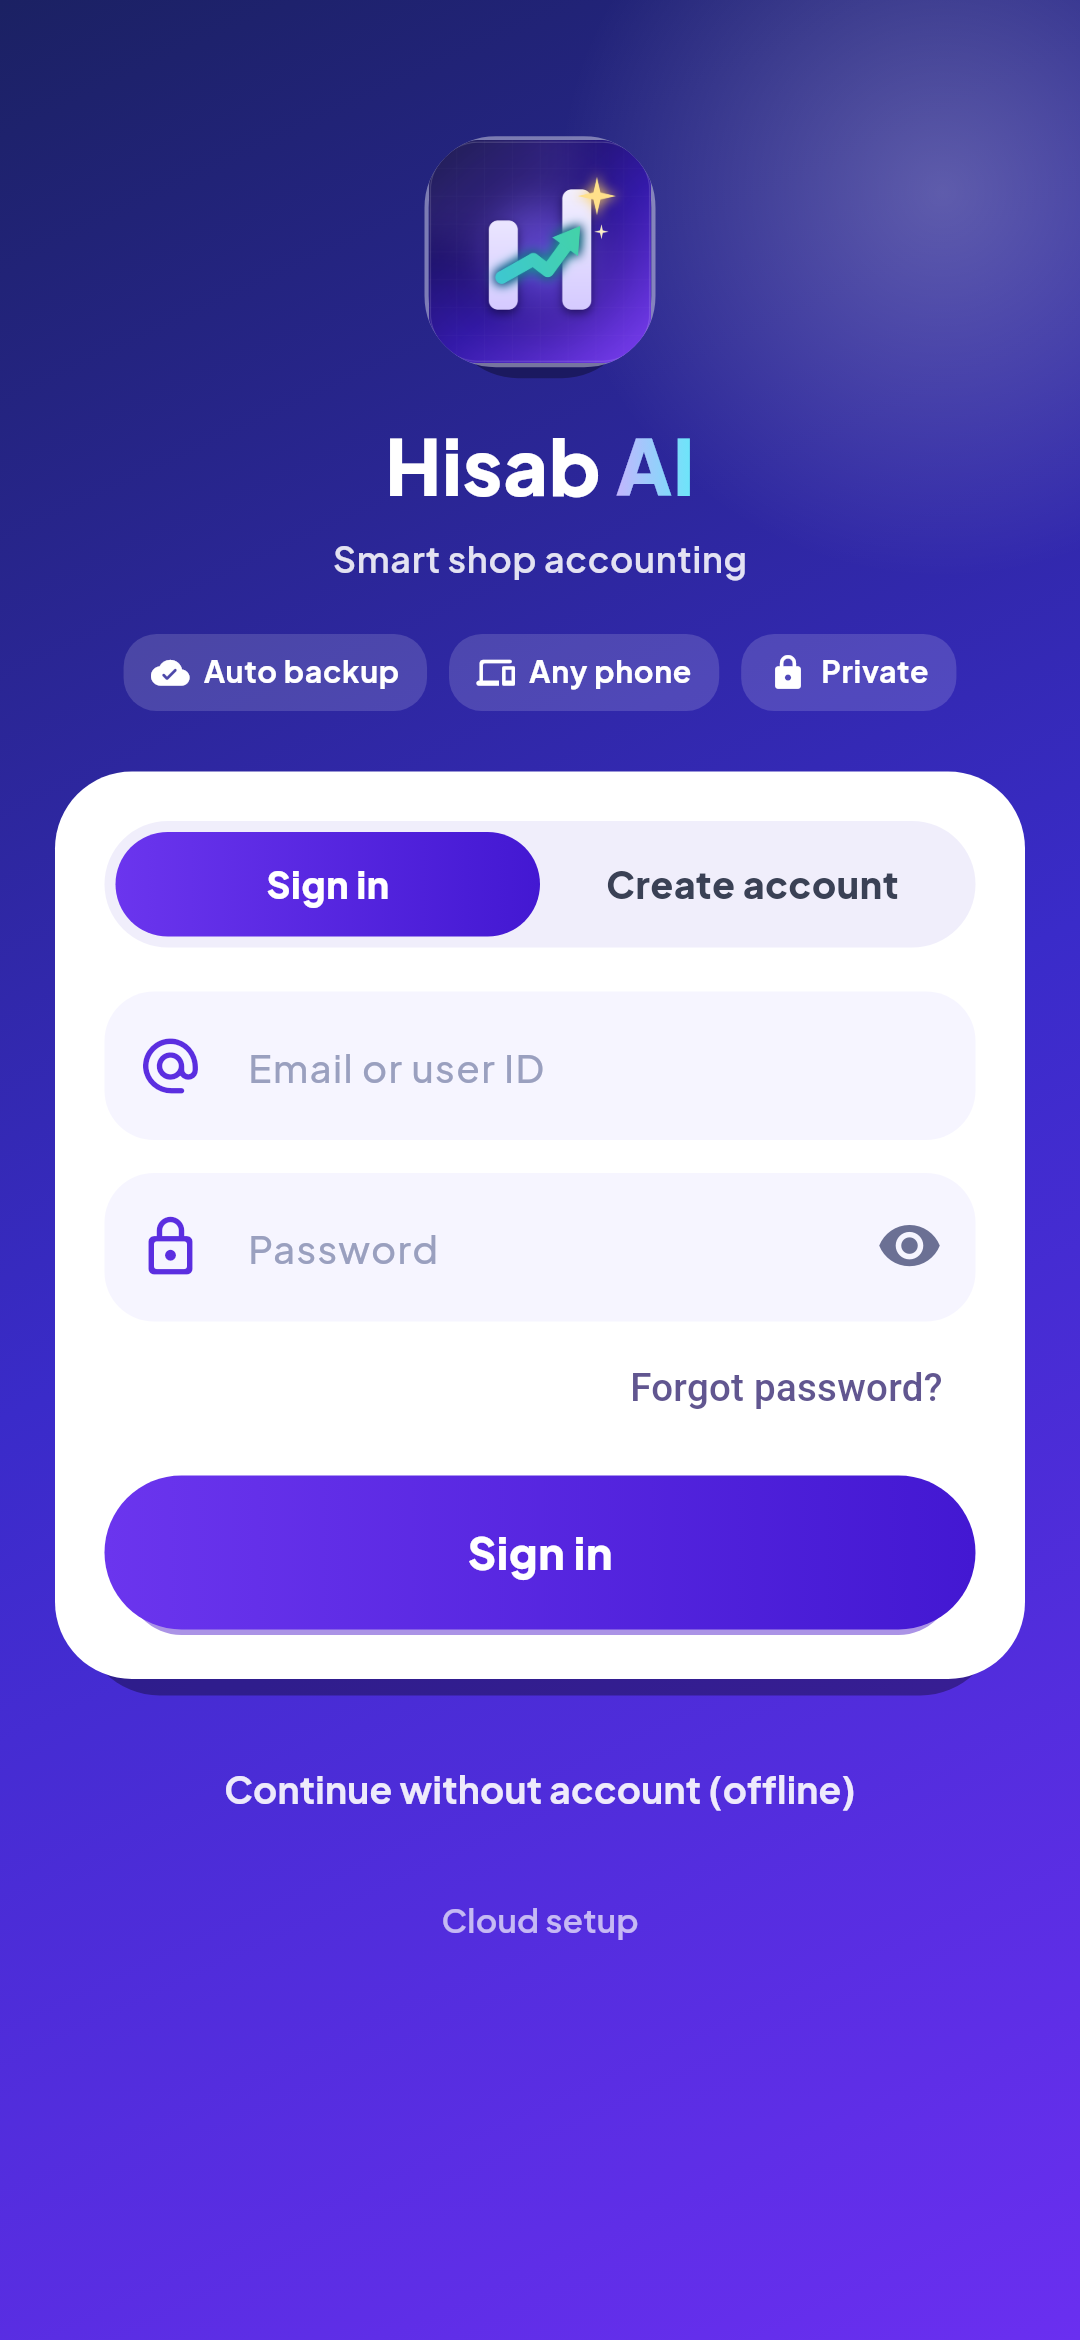
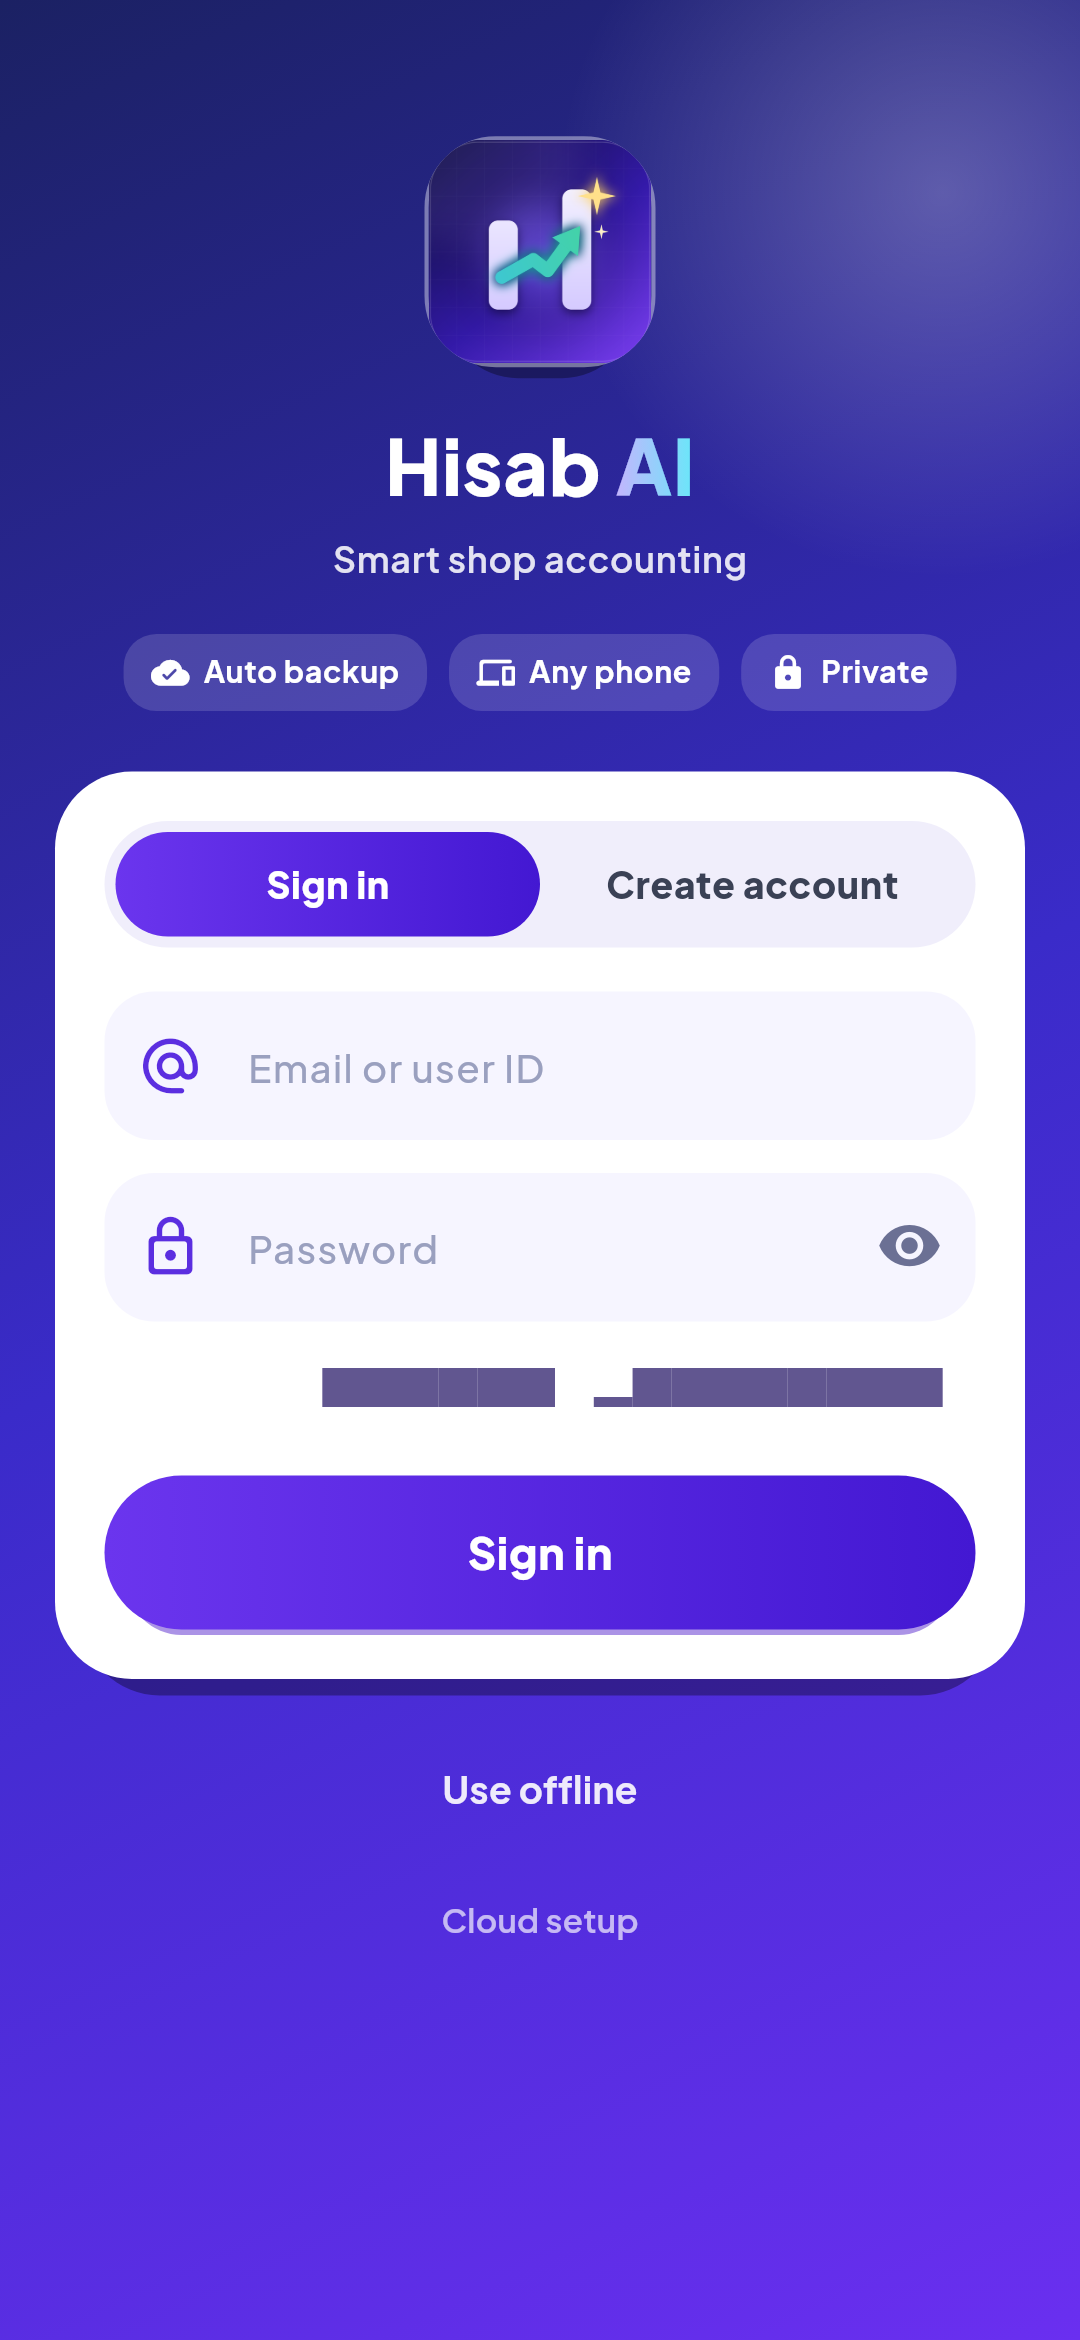
Login: short texts (Use offline, Set up cloud, shorter hints, errors and restore dialog)
Claude-Session: https://claude.ai/code/session_01TPz7VGxGWhSYt9uz1YHRun

Changed region(s): [[0.55, 0.5615, 0.8861, 0.6239], [0.2139, 0.7487, 0.7944, 0.7799], [0.3056, 0.5615, 0.5194, 0.6239]]

diff --git a/lib/screens/login.dart b/lib/screens/login.dart
@@ -144,22 +144,20 @@ class _LoginScreenState extends State<LoginScreen> {
         builder: (c) => AlertDialog(
           shape: RoundedRectangleBorder(borderRadius: BorderRadius.circular(26)),
           icon: const Icon(Icons.cloud_download_rounded, color: Color(0xFF4318D2), size: 44),
-          title: const Text('Your books are in the cloud'),
+          title: const Text('Backup found'),
           content: Column(mainAxisSize: MainAxisSize.min, crossAxisAlignment: CrossAxisAlignment.start, children: [
-            Text('${stores.length} store${stores.length == 1 ? '' : 's'} · last saved ${when(b.created)}${b.live ? ' (live copy)' : ''}'),
+            Text('Saved ${when(b.created)}'),
             const SizedBox(height: 8),
             for (final x in stores.values)
               Padding(
                 padding: const EdgeInsets.only(bottom: 4),
-                child: Text(
-                    '• ${x.storeName.isNotEmpty ? x.storeName : (x.store == 'main' ? 'Main store' : 'Store')} — '
-                    '${x.sales} sales, ${x.products} products · ${when(x.created)}',
+                child: Text('• ${x.storeName.isNotEmpty ? x.storeName : (x.store == 'main' ? 'Main store' : 'Store')} · ${x.sales} sales',
                     style: const TextStyle(fontSize: 12.5, fontWeight: FontWeight.w600)),
               ),
           ]),
           actions: [
             TextButton(onPressed: () => Navigator.pop(c, false), child: const Text('Start fresh')),
-            FilledButton(onPressed: () => Navigator.pop(c, true), child: const Text('Restore everything')),
+            FilledButton(onPressed: () => Navigator.pop(c, true), child: const Text('Restore')),
           ],
         ),
       );
@@ -172,7 +170,7 @@ class _LoginScreenState extends State<LoginScreen> {
           canPop: false,
           child: AlertDialog(
             shape: RoundedRectangleBorder(borderRadius: BorderRadius.circular(26)),
-            title: const Text('Restoring your books'),
+            title: const Text('Restoring…'),
             content: ValueListenableBuilder<(String, double)>(
               valueListenable: step,
               builder: (_, v, __) => Column(mainAxisSize: MainAxisSize.min, crossAxisAlignment: CrossAxisAlignment.stretch, children: [
@@ -188,12 +186,12 @@ class _LoginScreenState extends State<LoginScreen> {
         final n = await Backup.restoreAccount(status: (t, p) => step.value = (t, p));
         if (mounted) {
           Navigator.of(context, rootNavigator: true).pop();
-          toast(context, '$n store${n == 1 ? '' : 's'} restored — your books are back');
+          toast(context, '$n store${n == 1 ? '' : 's'} restored');
         }
       } catch (e) {
         if (mounted) {
           Navigator.of(context, rootNavigator: true).pop();
-          toast(context, 'Restore stopped: $e', error: true);
+          toast(context, 'Restore failed: $e', error: true);
         }
       }
     } catch (e) {
@@ -203,12 +201,12 @@ class _LoginScreenState extends State<LoginScreen> {
 
   Future<void> _forgot() async {
     if (email.text.trim().isEmpty) {
-      setState(() => error = 'Type your email first, then tap Forgot password');
+      setState(() => error = 'Type your email first');
       return;
     }
     try {
       await Cloud.resetPassword(email.text);
-      if (mounted) toast(context, 'Password reset link sent to ${email.text.trim()}');
+      if (mounted) toast(context, 'Reset link sent');
     } catch (e) {
       if (mounted) setState(() => error = '$e');
     }
@@ -239,8 +237,7 @@ class _LoginScreenState extends State<LoginScreen> {
         contentPadding: const EdgeInsets.symmetric(vertical: 16),
         border: OutlineInputBorder(borderRadius: BorderRadius.circular(18), borderSide: BorderSide.none),
         enabledBorder: OutlineInputBorder(borderRadius: BorderRadius.circular(18), borderSide: BorderSide.none),
-        focusedBorder: OutlineInputBorder(
-            borderRadius: BorderRadius.circular(18), borderSide: const BorderSide(color: Color(0xFF8B6CF6), width: 1.6)),
+        focusedBorder: OutlineInputBorder(borderRadius: BorderRadius.circular(18), borderSide: const BorderSide(color: Color(0xFF8B6CF6), width: 1.6)),
       );
 
   @override
@@ -265,8 +262,7 @@ class _LoginScreenState extends State<LoginScreen> {
               child: Container(
                 width: 280,
                 height: 280,
-                decoration: const BoxDecoration(
-                    shape: BoxShape.circle, gradient: RadialGradient(colors: [Color(0x40FFFFFF), Color(0x00FFFFFF)])),
+                decoration: const BoxDecoration(shape: BoxShape.circle, gradient: RadialGradient(colors: [Color(0x40FFFFFF), Color(0x00FFFFFF)])),
               ),
             ),
             SafeArea(
@@ -306,8 +302,7 @@ class _LoginScreenState extends State<LoginScreen> {
                 ),
                 const SizedBox(height: 4),
                 Center(
-                  child: Text('Smart shop accounting',
-                      maxLines: 1, overflow: TextOverflow.ellipsis, style: _j(13, FontWeight.w600, const Color(0xDDFFFFFF))),
+                  child: Text('Smart shop accounting', maxLines: 1, overflow: TextOverflow.ellipsis, style: _j(13, FontWeight.w600, const Color(0xDDFFFFFF))),
                 ),
                 const SizedBox(height: 18),
                 Row(mainAxisAlignment: MainAxisAlignment.center, children: [
@@ -353,12 +348,9 @@ class _LoginScreenState extends State<LoginScreen> {
                                 alignment: Alignment.center,
                                 decoration: BoxDecoration(
                                   borderRadius: BorderRadius.circular(19),
-                                  gradient: register == t.$1
-                                      ? const LinearGradient(colors: [Color(0xFF6B35EE), Color(0xFF4318D2)])
-                                      : null,
+                                  gradient: register == t.$1 ? const LinearGradient(colors: [Color(0xFF6B35EE), Color(0xFF4318D2)]) : null,
                                 ),
-                                child: Text(t.$2,
-                                    style: _j(13.5, FontWeight.w800, register == t.$1 ? Colors.white : const Color(0xFF3A4155))),
+                                child: Text(t.$2, style: _j(13.5, FontWeight.w800, register == t.$1 ? Colors.white : const Color(0xFF3A4155))),
                               ),
                             ),
                           ),
@@ -370,7 +362,7 @@ class _LoginScreenState extends State<LoginScreen> {
                         controller: name,
                         textCapitalization: TextCapitalization.words,
                         style: _j(15, FontWeight.w600, _ink),
-                        decoration: _deco('Your name / shop name', Icons.storefront_rounded),
+                        decoration: _deco('Shop name', Icons.storefront_rounded),
                       ),
                       const SizedBox(height: 12),
                     ],
@@ -379,7 +371,7 @@ class _LoginScreenState extends State<LoginScreen> {
                       keyboardType: TextInputType.emailAddress,
                       autofillHints: const [AutofillHints.email],
                       style: _j(15, FontWeight.w600, _ink),
-                      decoration: _deco(register ? 'Email address' : 'Email or user ID', Icons.alternate_email_rounded),
+                      decoration: _deco(register ? 'Email' : 'Email or user ID', Icons.alternate_email_rounded),
                     ),
                     const SizedBox(height: 12),
                     TextField(
@@ -389,7 +381,7 @@ class _LoginScreenState extends State<LoginScreen> {
                       style: _j(15, FontWeight.w600, _ink),
                       onSubmitted: (_) => _submit(),
                       decoration: _deco(
-                        register ? 'Create a password (6+ characters)' : 'Password',
+                        register ? 'Password (6+ letters)' : 'Password',
                         Icons.lock_outline_rounded,
                         suffix: IconButton(
                           icon: Icon(hide ? Icons.visibility_rounded : Icons.visibility_off_rounded, color: _muted),
@@ -440,8 +432,7 @@ class _LoginScreenState extends State<LoginScreen> {
                             const Icon(Icons.settings_suggest_rounded, color: Color(0xFFB06A00), size: 20),
                             const SizedBox(width: 8),
                             Expanded(
-                              child: Text('Cloud not set up yet — tap to add your Firebase project',
-                                  style: _j(12, FontWeight.w700, const Color(0xFF8A5300))),
+                              child: Text('Set up cloud', style: _j(12, FontWeight.w700, const Color(0xFF8A5300))),
                             ),
                           ]),
                         ),
@@ -454,8 +445,7 @@ class _LoginScreenState extends State<LoginScreen> {
                   Center(
                     child: TextButton(
                       onPressed: _offline,
-                      child: Text('Continue without account (offline)',
-                          style: _j(13.5, FontWeight.w700, const Color(0xE6FFFFFF))),
+                      child: Text('Use offline', style: _j(13.5, FontWeight.w700, const Color(0xE6FFFFFF))),
                     ),
                   ),
                 if (Cloud.configured)
@@ -519,13 +509,12 @@ class _CloudSetupSheetState extends State<CloudSetupSheet> {
           const SizedBox(height: 14),
           Text('Cloud setup', style: _j(20, FontWeight.w800, const Color(0xFF0B0F5E))),
           const SizedBox(height: 4),
-          Text('One time — your books are stored in your own Firebase project (free plan).',
-              style: _j(12.5, FontWeight.w500, _muted)),
+          Text('One time · your own Firebase (free)', style: _j(12.5, FontWeight.w500, _muted)),
           const SizedBox(height: 12),
           step('1', 'console.firebase.google.com → Add project'),
-          step('2', 'Authentication → Sign-in method → turn on Email/Password'),
-          step('3', 'Firestore Database → Create database, then Rules → allow each user only their own data'),
-          step('4', 'Project settings → copy the Web API key and Project ID below'),
+          step('2', 'Authentication → turn on Email/Password'),
+          step('3', 'Firestore → Create database'),
+          step('4', 'Project settings → copy API key + Project ID'),
           const SizedBox(height: 10),
           TextField(controller: apiKey, decoration: const InputDecoration(labelText: 'Web API key')),
           const SizedBox(height: 10),
@@ -537,13 +526,13 @@ class _CloudSetupSheetState extends State<CloudSetupSheet> {
             fontSize: 16,
             onTap: () async {
               if (apiKey.text.trim().length < 20 || project.text.trim().isEmpty) {
-                toast(context, 'Enter both the Web API key and the Project ID', error: true);
+                toast(context, 'Enter the API key and Project ID', error: true);
                 return;
               }
               await Cloud.configure(apiKey.text, project.text);
               if (!context.mounted) return;
               Navigator.of(context).pop();
-              toast(context, 'Cloud connected — now sign in or create your account');
+              toast(context, 'Cloud connected');
             },
           ),
         ]),

diff --git a/lib/cloud/cloud.dart b/lib/cloud/cloud.dart
@@ -147,19 +147,19 @@ class Cloud {
   static String _friendly(String code) {
     final c = code.split(' ').first.split(':').first;
     return switch (c) {
-      'EMAIL_EXISTS' => 'An account with this email already exists — sign in instead',
+      'EMAIL_EXISTS' => 'Account exists — sign in',
       'EMAIL_NOT_FOUND' || 'INVALID_LOGIN_CREDENTIALS' || 'INVALID_PASSWORD' => 'Wrong email or password',
       'USER_DISABLED' => 'This account has been disabled',
-      'WEAK_PASSWORD' => 'Password must be at least 6 characters',
-      'INVALID_EMAIL' => 'Enter a valid email address',
+      'WEAK_PASSWORD' => 'Password: 6+ letters',
+      'INVALID_EMAIL' => 'Enter a valid email',
       'MISSING_PASSWORD' => 'Enter your password',
-      'TOO_MANY_ATTEMPTS_TRY_LATER' => 'Too many tries — please wait a few minutes',
-      'API_KEY_INVALID' || 'INVALID_API_KEY' => 'Cloud setup: the Web API key is wrong',
+      'TOO_MANY_ATTEMPTS_TRY_LATER' => 'Too many tries — wait a bit',
+      'API_KEY_INVALID' || 'INVALID_API_KEY' => 'Wrong API key',
       'CONFIGURATION_NOT_FOUND' || 'OPERATION_NOT_ALLOWED' =>
         'Turn on Email/Password sign-in in Firebase (Authentication → Sign-in method)',
-      'PERMISSION_DENIED' => 'Cloud refused access — check the Firestore rules',
-      'NOT_FOUND' => 'Cloud database not found — create Firestore in the Firebase project',
-      'TOKEN_EXPIRED' || 'INVALID_REFRESH_TOKEN' || 'USER_NOT_FOUND' => 'Session expired — please sign in again',
+      'PERMISSION_DENIED' => 'Access denied — check rules',
+      'NOT_FOUND' => 'Firestore not created',
+      'TOKEN_EXPIRED' || 'INVALID_REFRESH_TOKEN' || 'USER_NOT_FOUND' => 'Session expired — sign in',
       _ => 'Cloud error: $code',
     };
   }
